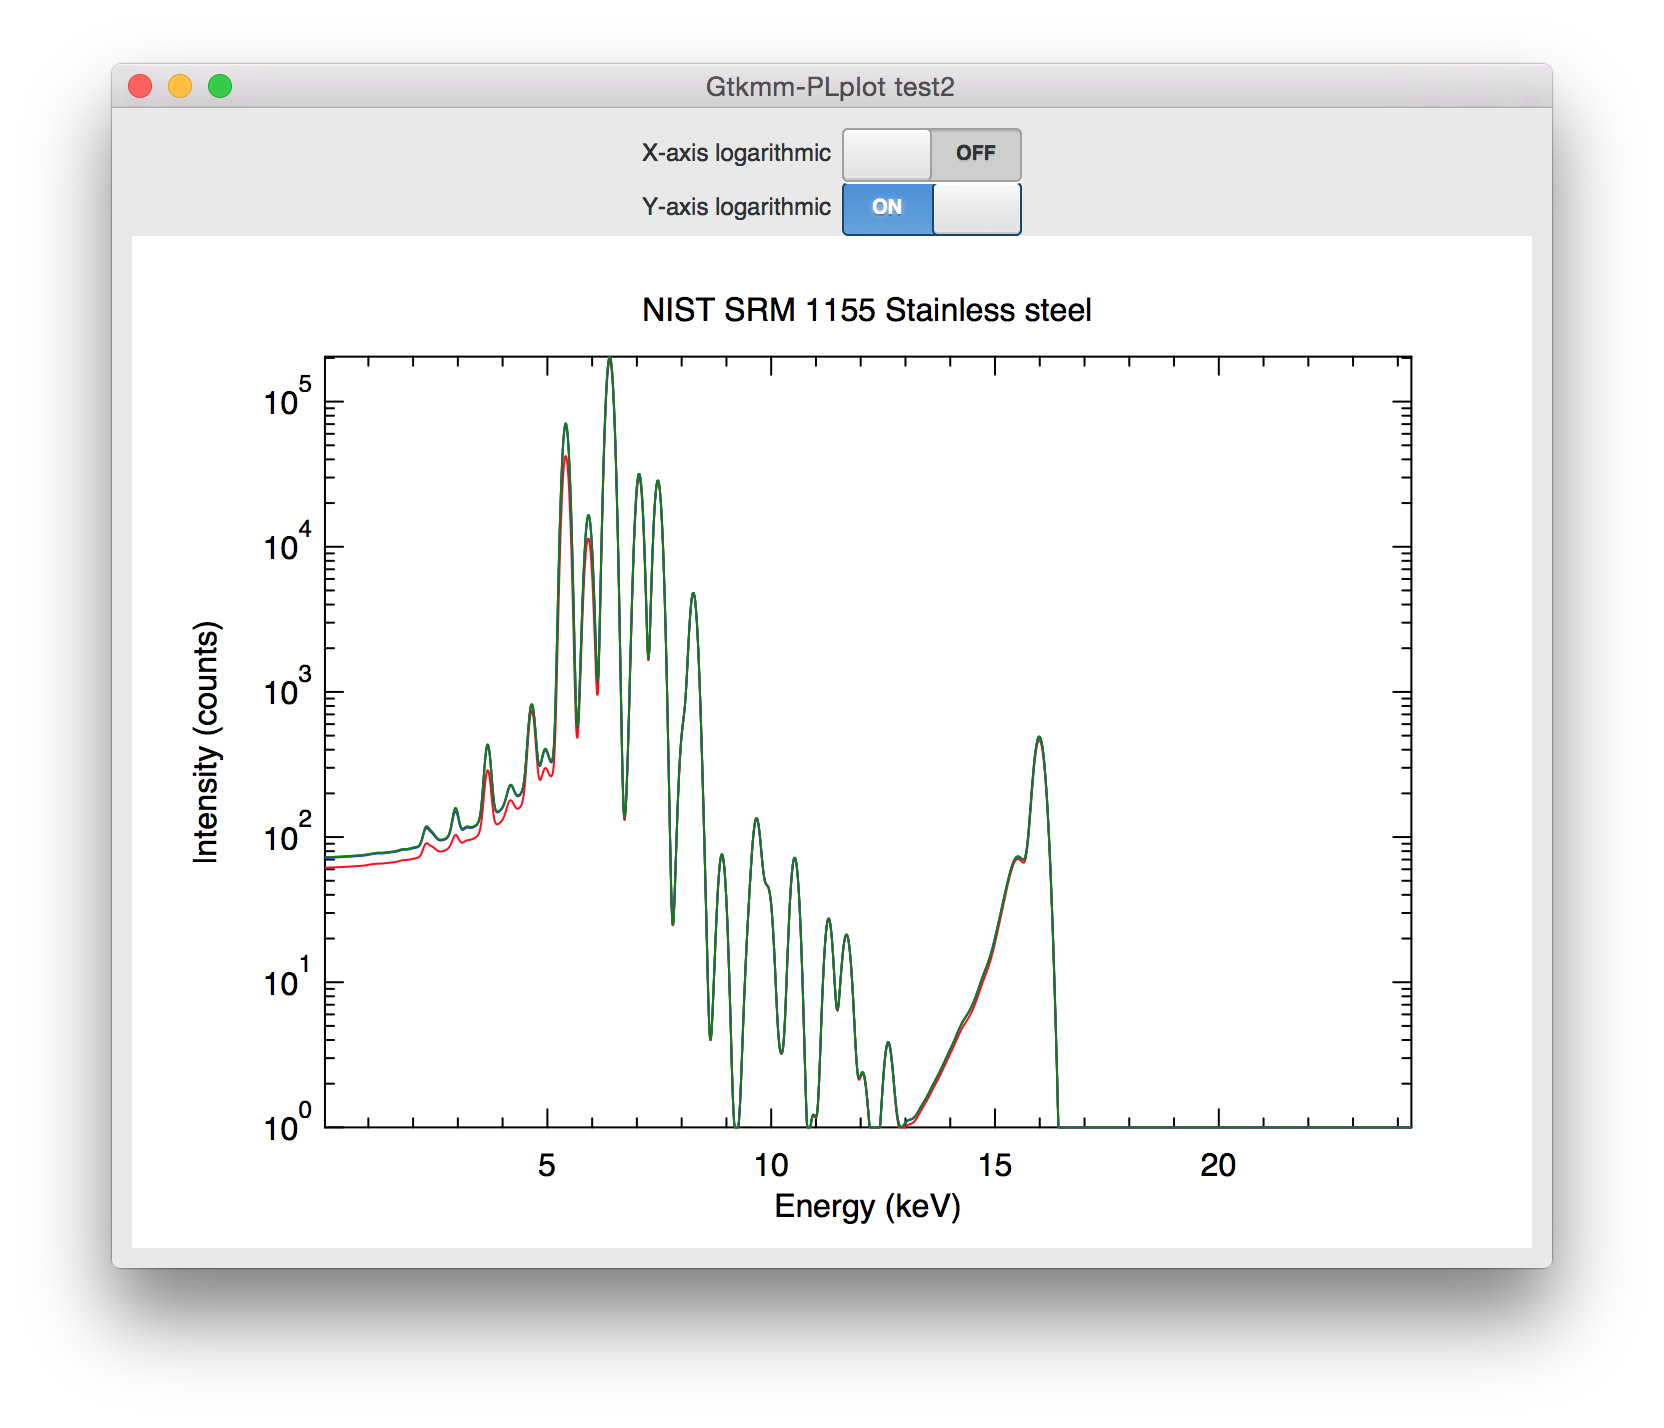
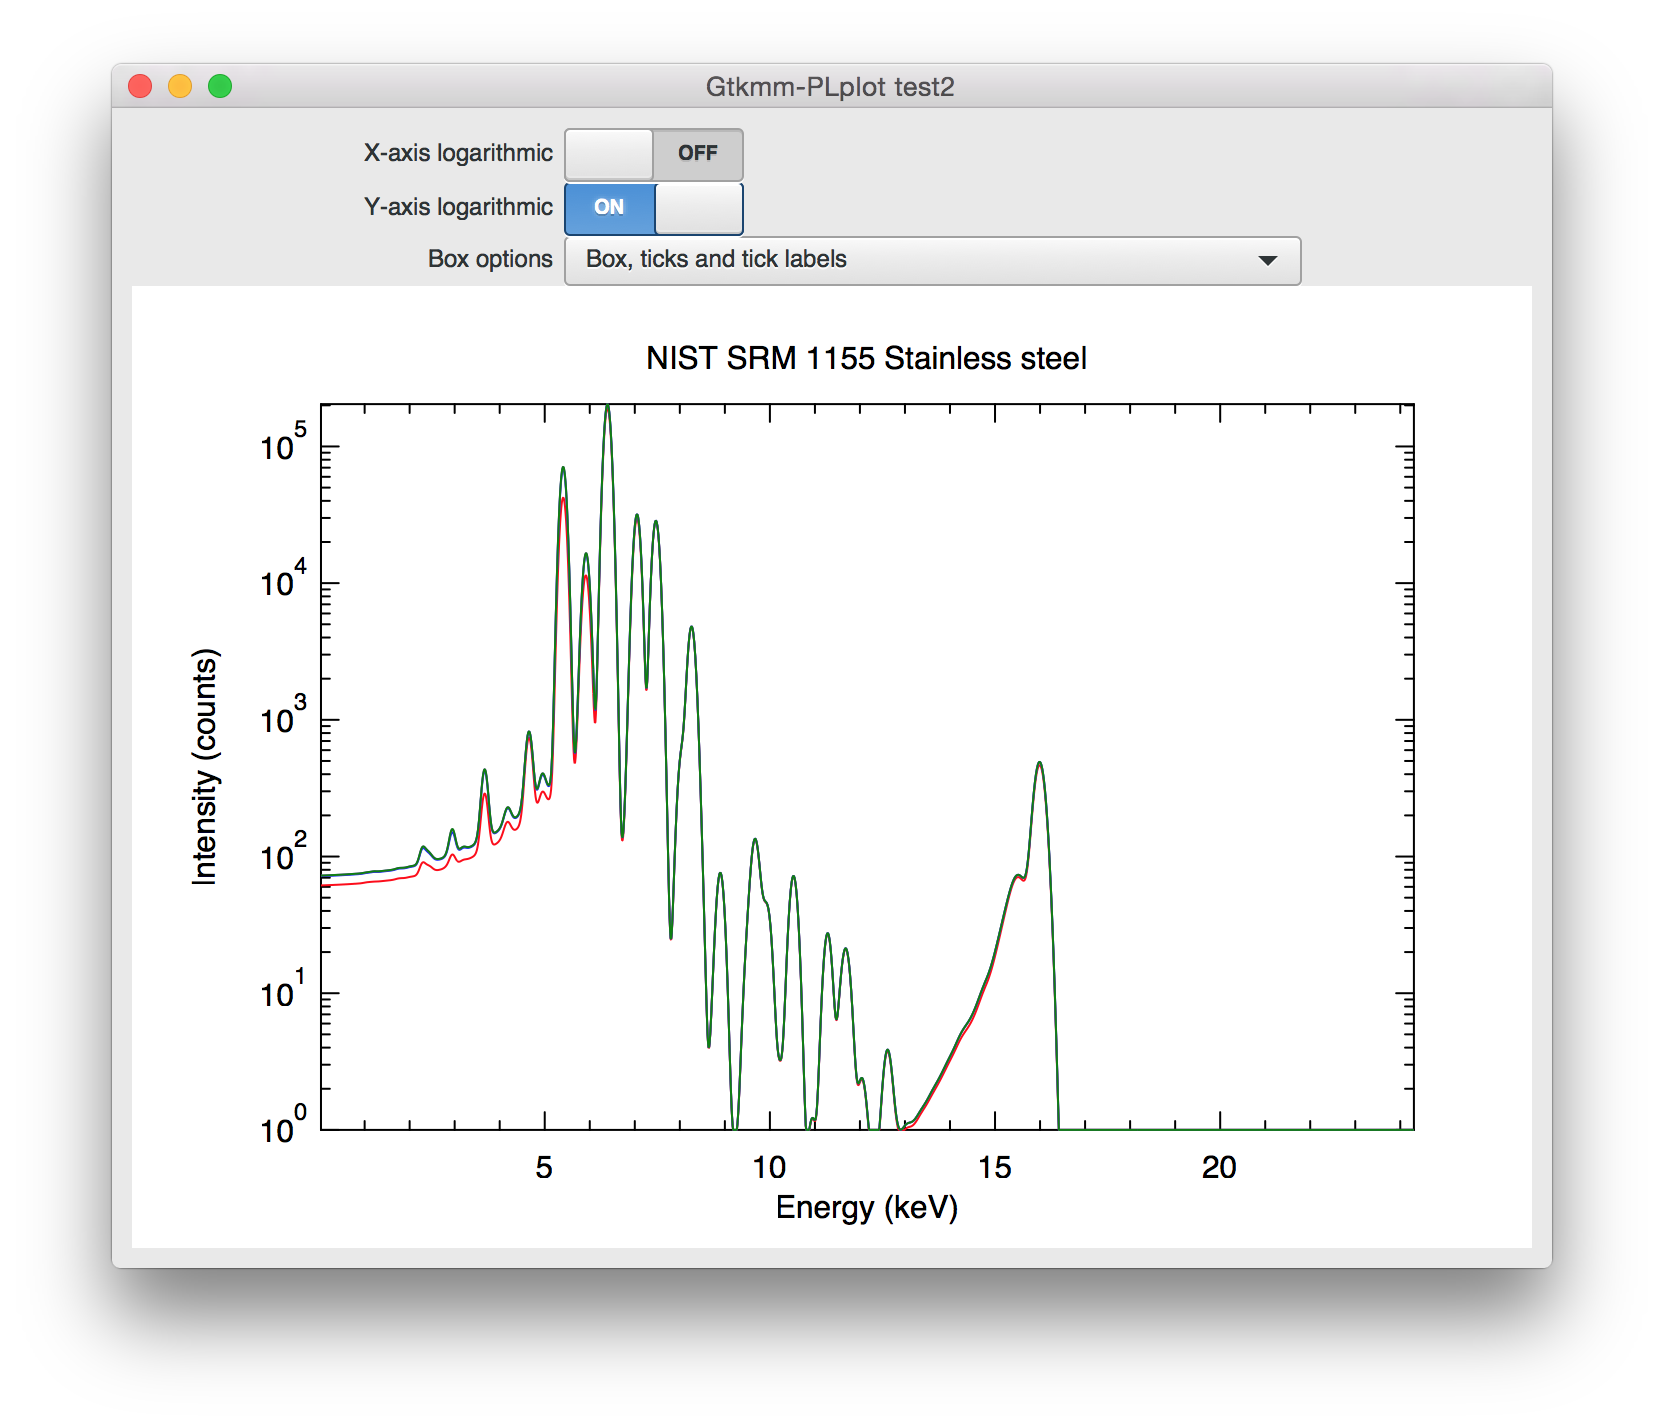
Test2: boxstyle combo added

diff --git a/tests/test2.cpp b/tests/test2.cpp
@@ -26,6 +26,7 @@ along with this program.  If not, see <http://www.gnu.org/licenses/>.
 #include <gtkmm/grid.h>
 #include <gtkmm/label.h>
 #include <gtkmm/switch.h>
+#include <gtkmm/comboboxtext.h>
 #include <vector>
 
 namespace Test2 {
@@ -33,10 +34,14 @@ namespace Test2 {
   private:
     Gtk::PLplot::Canvas canvas;
     Gtk::Grid grid;
-    Gtk::Label x_label;
-    Gtk::Label y_label;
-    Gtk::Switch x_switch;
-    Gtk::Switch y_switch;
+    Gtk::Label x_log_label;
+    Gtk::Label x_box_label;
+    Gtk::Label y_log_label;
+    Gtk::Label y_box_label;
+    Gtk::Label box_label;
+    Gtk::Switch x_log_switch;
+    Gtk::Switch y_log_switch;
+    Gtk::ComboBoxText box_combo;
   public:
     Window(std::vector<PLFLT> &x,
            std::vector<PLFLT> &y1,
@@ -47,14 +52,16 @@ namespace Test2 {
            std::string y_title,
            std::string plot_title) :
            canvas(Gtk::PLplot::Plot2D(Gtk::PLplot::PlotData2D(x, y1, Gdk::RGBA("red")), x_title, y_title, plot_title)),
-           x_label("X-axis logarithmic"),
-           y_label("Y-axis logarithmic") {
+           x_log_label("X-axis logarithmic"),
+           y_log_label("Y-axis logarithmic"),
+           box_label("Box options") {
 
 
         Gtk::PLplot::Plot2D *plot = dynamic_cast<Gtk::PLplot::Plot2D *>(canvas.get_plot(0));
         plot->add_data(Gtk::PLplot::PlotData2D(x, y2, Gdk::RGBA("blue")));
         plot->add_data(Gtk::PLplot::PlotData2D(x, y3, Gdk::RGBA("Blue Violet")));
         plot->add_data(Gtk::PLplot::PlotData2D(x, y4, Gdk::RGBA("Green")));
+        plot->set_axis_logarithmic_y();
 
         set_default_size(720, 580);
         Gdk::Geometry geometry;
@@ -64,39 +71,62 @@ namespace Test2 {
         canvas.set_hexpand(true);
         canvas.set_vexpand(true);
 
-        x_switch.set_active(plot->get_axis_logarithmic_x());
-        y_switch.set_active(plot->get_axis_logarithmic_y());
-        x_switch.property_active().signal_changed().connect([this, plot](){
-          if (x_switch.get_active()) {
+        x_log_switch.set_active(plot->get_axis_logarithmic_x());
+        y_log_switch.set_active(plot->get_axis_logarithmic_y());
+        x_log_switch.property_active().signal_changed().connect([this, plot](){
+          if (x_log_switch.get_active()) {
             plot->set_axis_logarithmic_x(true);
           }
           else {
             plot->set_axis_logarithmic_x(false);
           }
         });
-        y_switch.property_active().signal_changed().connect([this, plot](){
-          if (y_switch.get_active()) {
+
+        box_combo.append("No box, no ticks, no labels, no axes");
+        box_combo.append("Box only");
+        box_combo.append("Box, ticks and tick labels");
+        box_combo.append("Box, ticks, tick labels, and main axes");
+        box_combo.append("Box, ticks, tick labels, main axes and major tick grid");
+        box_combo.append("Box, ticks, tick labels, main axes and major and minor tick grid");
+        box_combo.signal_changed().connect(
+          [this, plot](){
+            plot->set_box_style(static_cast<Gtk::PLplot::BoxStyle>(
+              box_combo.get_active_row_number() - 2
+            ));
+          }
+        );
+        box_combo.set_active(plot->get_box_style() + 2);
+
+        y_log_switch.property_active().signal_changed().connect([this, plot](){
+          if (y_log_switch.get_active()) {
             plot->set_axis_logarithmic_y(true);
           }
           else {
             plot->set_axis_logarithmic_y(false);
           }
         });
-        x_label.set_hexpand(false);
-        y_label.set_hexpand(false);
-        x_switch.set_hexpand(false);
-        y_switch.set_hexpand(false);
-        x_label.set_halign(Gtk::ALIGN_END);
-        y_label.set_halign(Gtk::ALIGN_END);
-        x_switch.set_halign(Gtk::ALIGN_START);
-        y_switch.set_halign(Gtk::ALIGN_START);
+        x_log_label.set_hexpand(false);
+        y_log_label.set_hexpand(false);
+        box_label.set_hexpand(false);
+        x_log_switch.set_hexpand(false);
+        y_log_switch.set_hexpand(false);
+        box_combo.set_hexpand(false);
+        x_log_label.set_halign(Gtk::ALIGN_END);
+        y_log_label.set_halign(Gtk::ALIGN_END);
+        box_label.set_halign(Gtk::ALIGN_END);
+        x_log_switch.set_halign(Gtk::ALIGN_START);
+        y_log_switch.set_halign(Gtk::ALIGN_START);
+        box_combo.set_halign(Gtk::ALIGN_START);
 
-        grid.attach(x_label, 0, 0, 1, 1);
-        grid.attach(y_label, 0, 1, 1, 1);
-        grid.attach(x_switch, 1, 0, 1, 1);
-        grid.attach(y_switch, 1, 1, 1, 1);
-        grid.attach(canvas, 0, 2, 2, 1);
+        grid.attach(x_log_label, 0, 0, 1, 1);
+        grid.attach(y_log_label, 0, 1, 1, 1);
+        grid.attach(x_log_switch, 1, 0, 1, 1);
+        grid.attach(y_log_switch, 1, 1, 1, 1);
+        grid.attach(box_label, 0, 2, 1, 1);
+        grid.attach(box_combo, 1, 2, 1, 1);
+        grid.attach(canvas, 0, 3, 2, 1);
         grid.set_column_spacing(5);
+        grid.set_column_homogeneous(false);
 
         add(grid);
         set_border_width(10);
